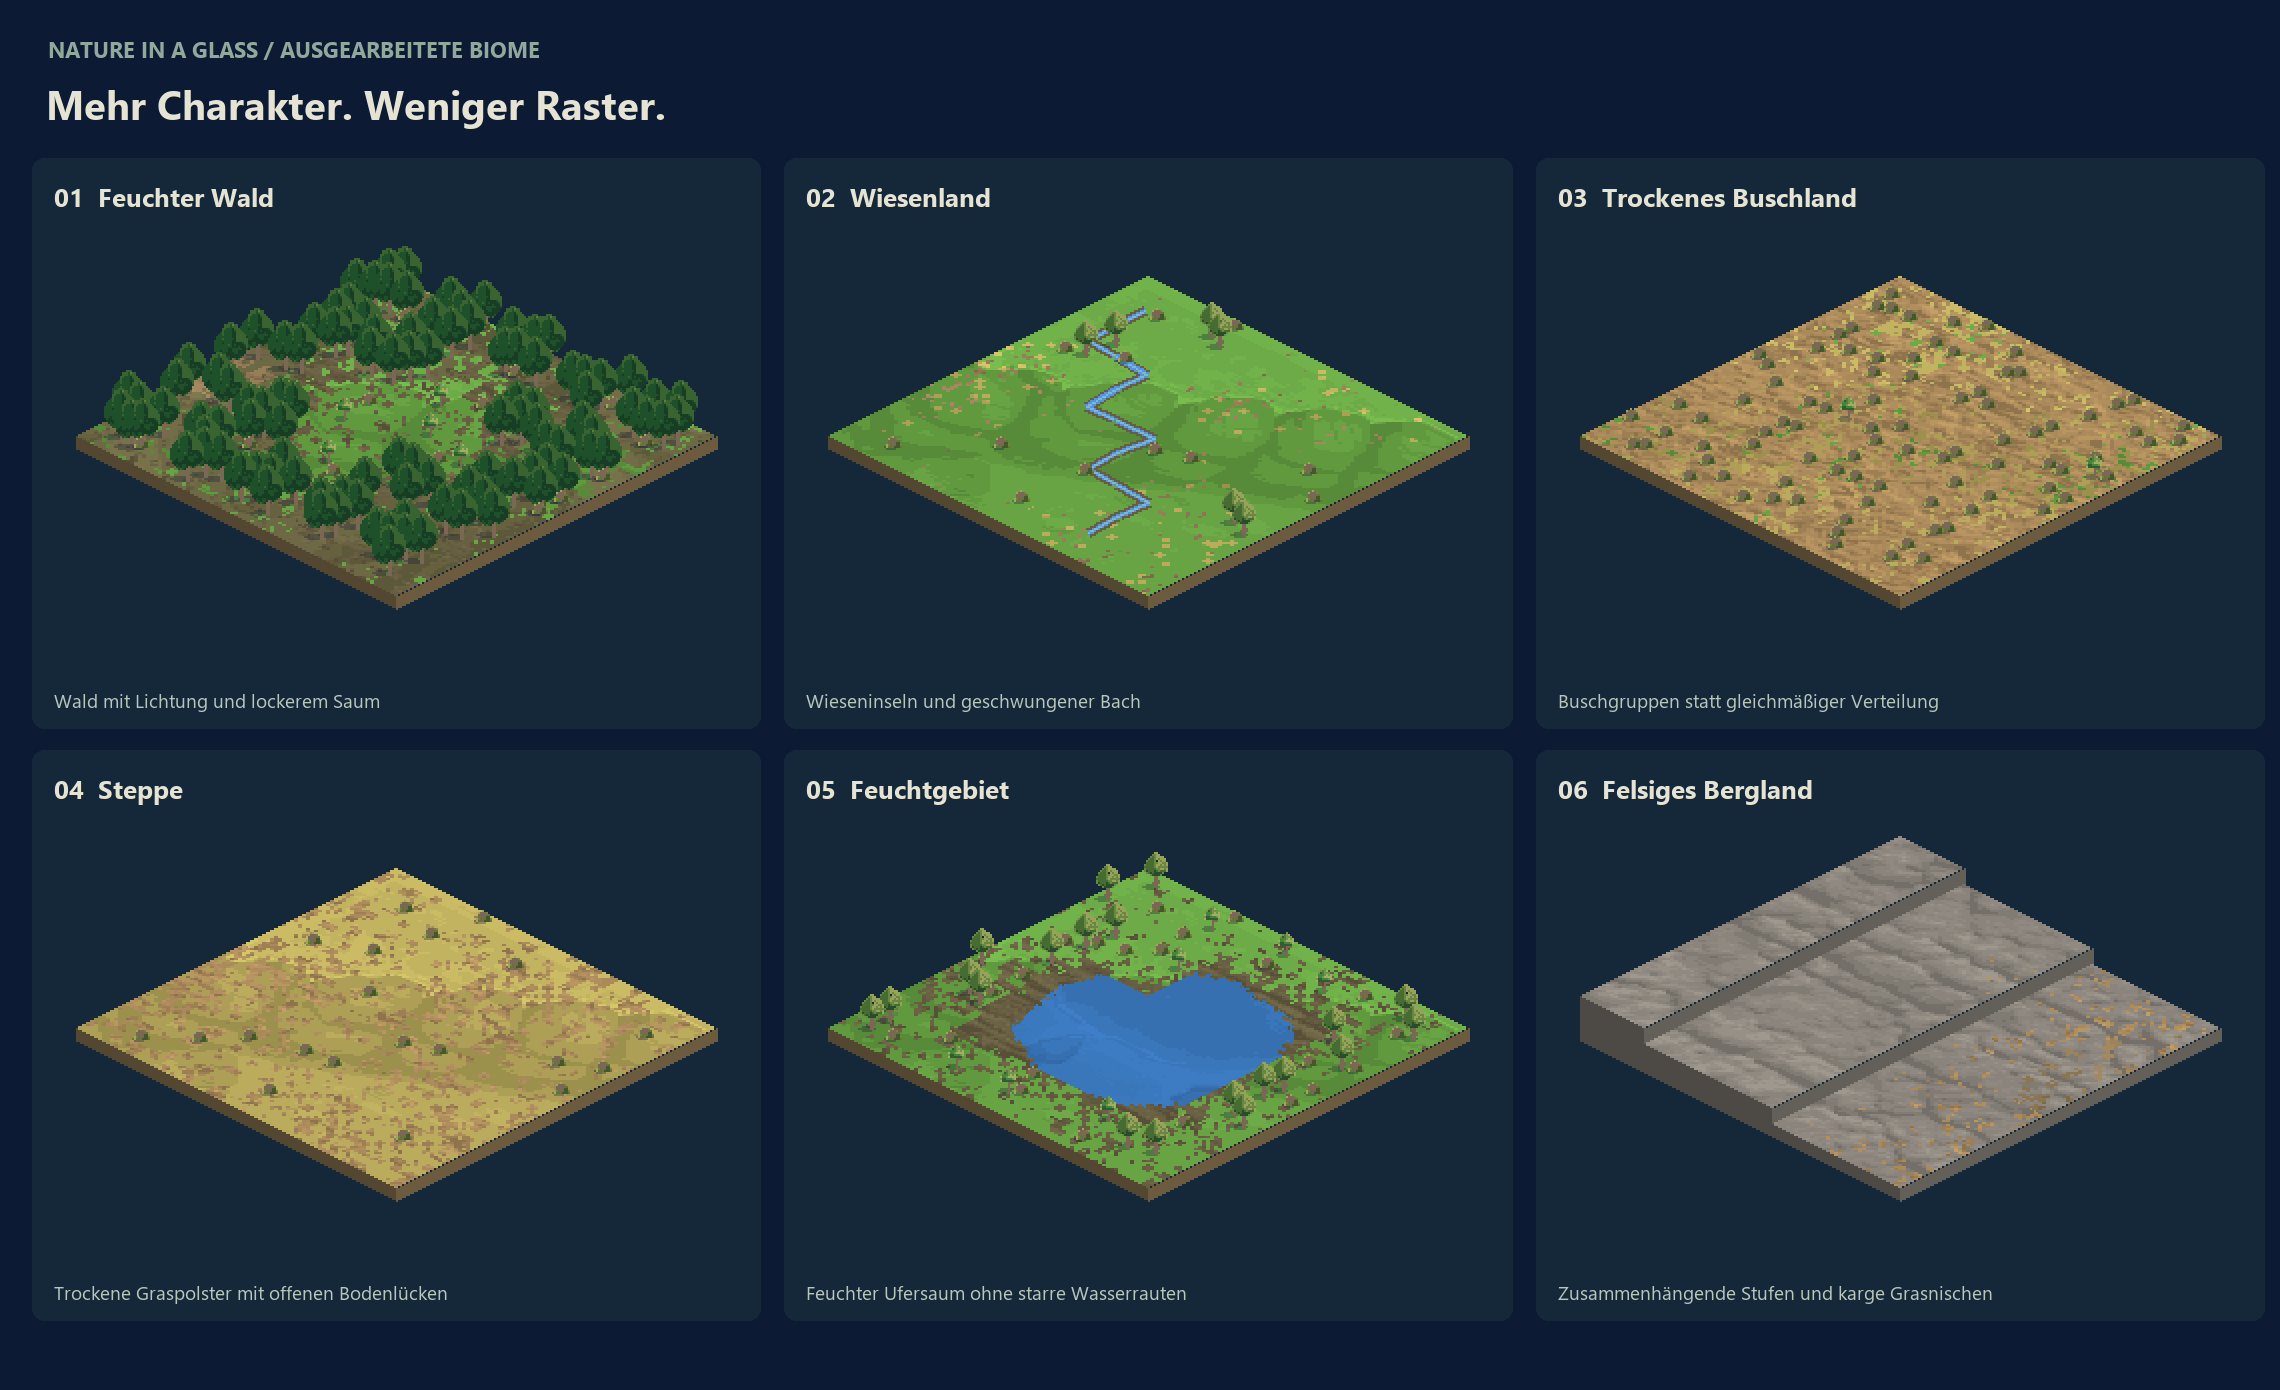
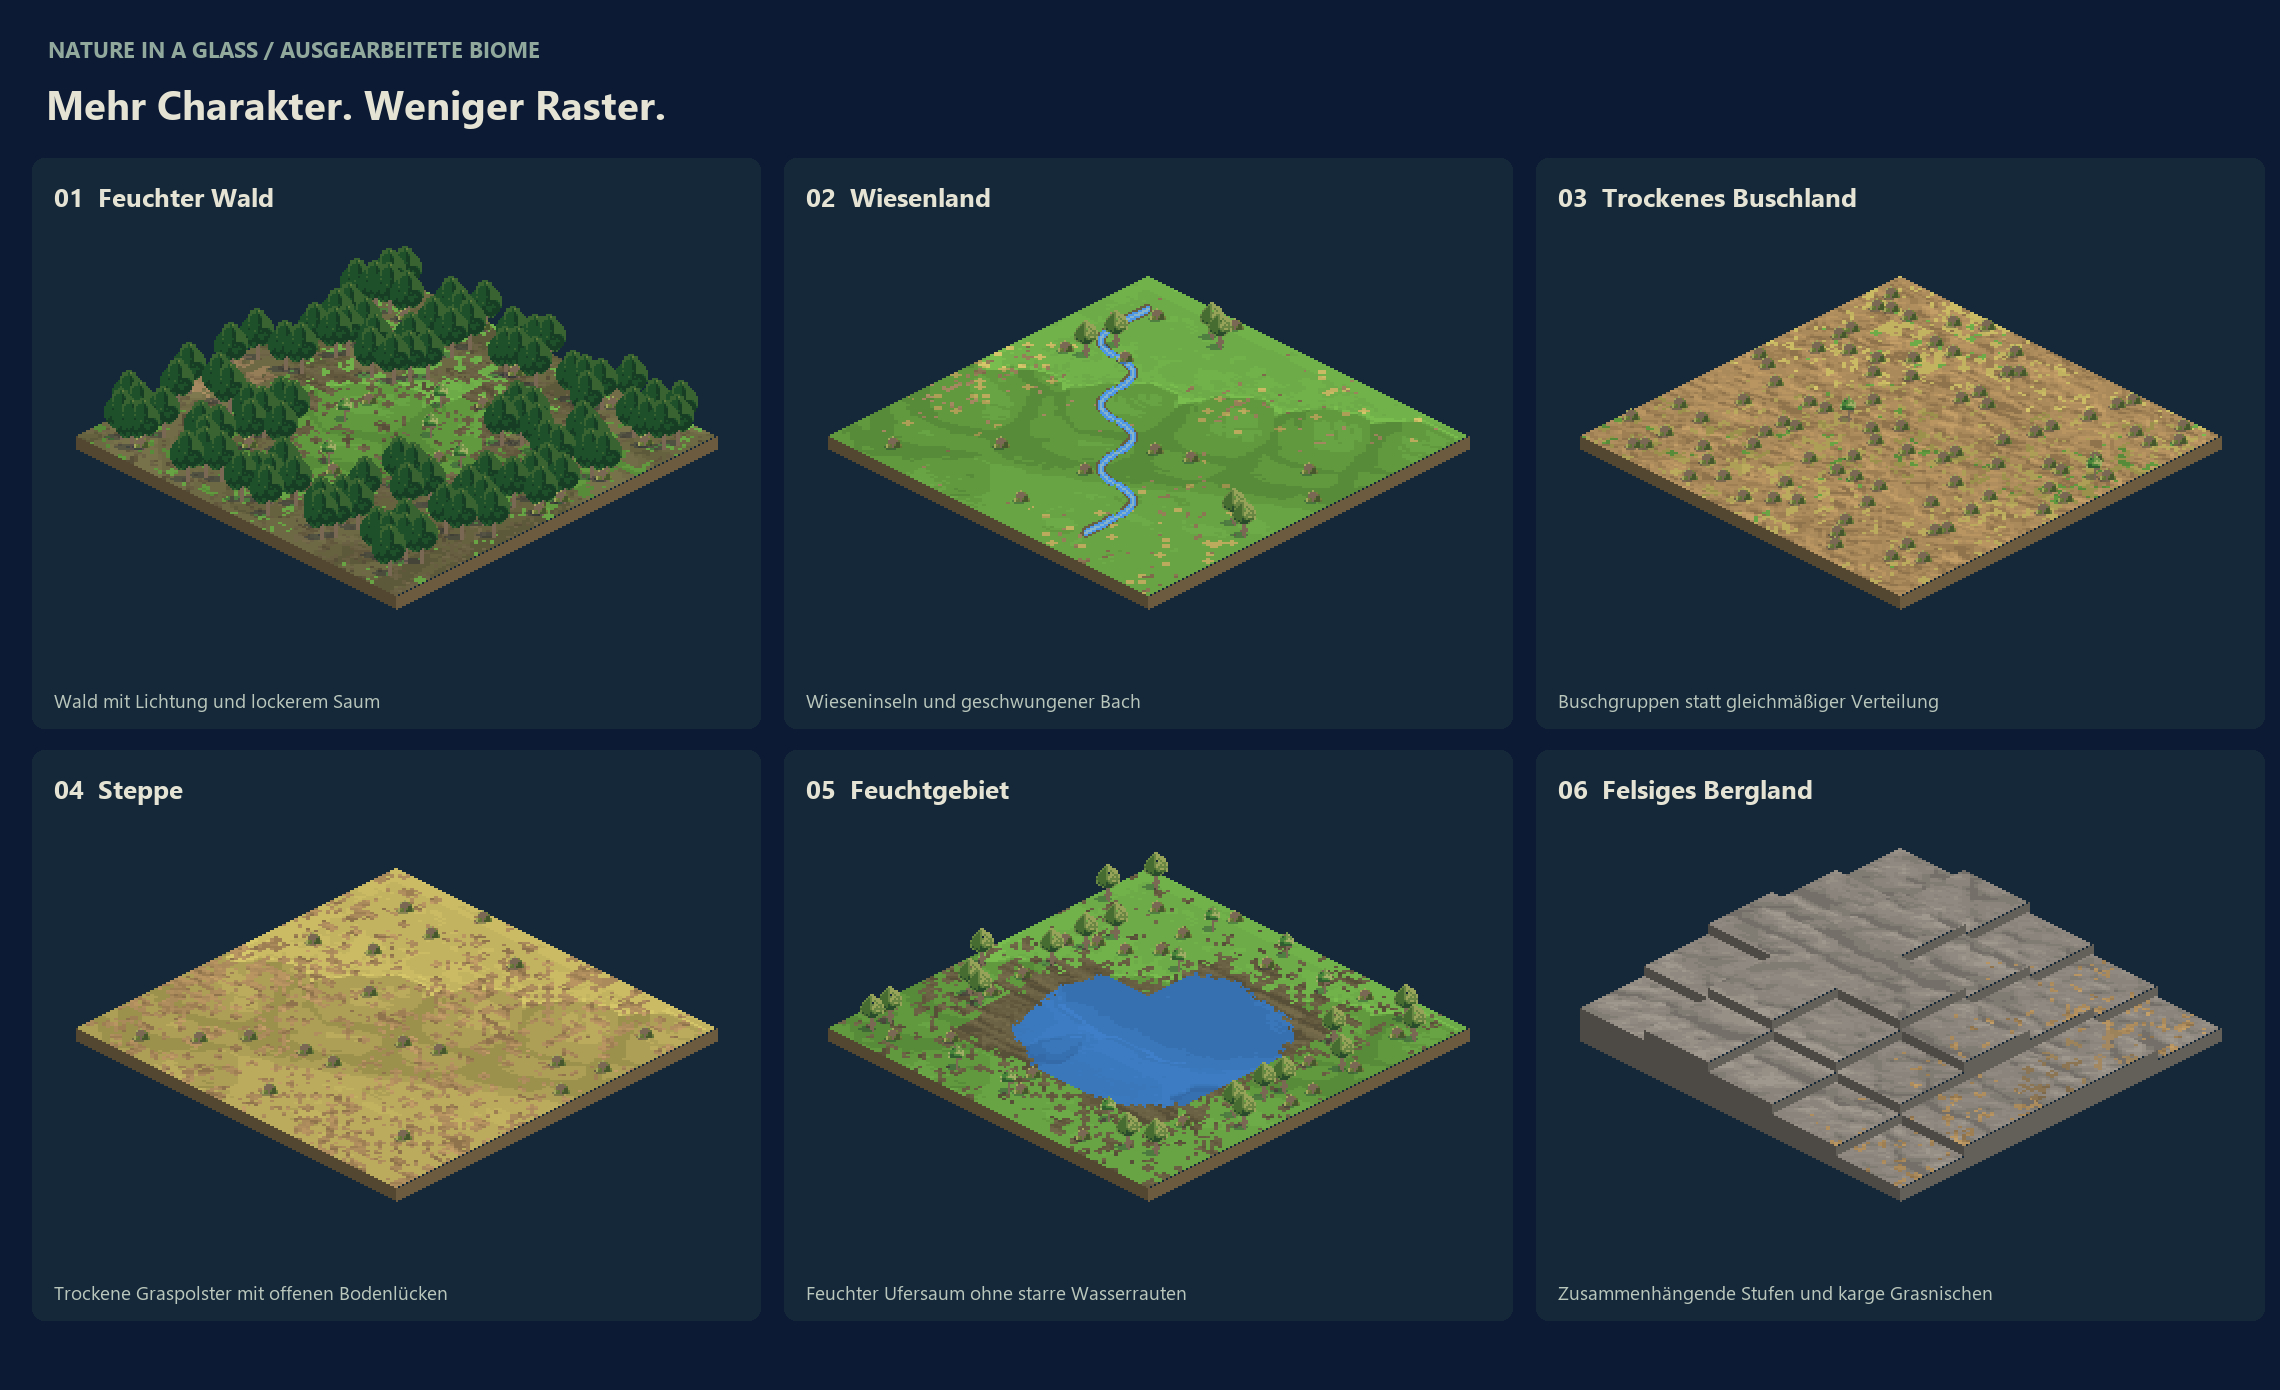
Gestaltung: Biomrichtung festhalten und Bachkurven verfeinern

Changed region(s): [[0.6851, 0.5878, 0.9654, 0.8353], [0.4671, 0.2475, 0.5294, 0.3712]]

diff --git a/tools/nature/build_biome_transitions.py b/tools/nature/build_biome_transitions.py
@@ -5,7 +5,6 @@ koordinaten verhindert sichtbare Wiederholungen an jeder 64×32-Feldgrenze.
 """
 import json
 import math
-import hashlib
 import numpy as np
 from PIL import Image, ImageDraw
 import build_proof as b
@@ -68,7 +67,8 @@ def make_fields(n,kind=None):
                     forest=.35 if x in (0,4) else .06
                 if kind=='highland':
                     rock=.65+.35*smooth(0,3,4-x+y*.2)
-                    height=6+int((4-x+y*.2)/2)*8
+                    ridge=max(0,1-((x-1.1)/3.3)**2-((y-2.0)/3.4)**2)
+                    height=6+round(ridge*4)*5
                     grass=.32*(1-smooth(1,4,4-x+y*.2))
                     forest=0;shrub=.13*(1-rock)
             age=75 if forest>.5 else 35 if forest>.2 else 10
@@ -148,6 +148,29 @@ def tile(fields,x,y,materials):
 def tree_count(f):
     return 0 if f<.05 else 1 if f<.2 else 2 if f<.4 else 3 if f<.6 else 4 if f<.7 else 5 if f<.8 else 6
 
+def stream_overlay(t,x,y):
+    """Quadratische Kurve mit festen Kantenanschlüssen, auf die Raute begrenzt."""
+    center=(32,16)
+    endpoints=[]
+    for key in ['upstream','downstream']:
+        p=t.get(key)
+        if p:
+            dx=p[0]-x;dy=p[1]-y
+            endpoints.append((32+(dx-dy)*16,16+(dx+dy)*8))
+        else:endpoints.append(center)
+    start,end=endpoints
+    points=[]
+    for i in range(33):
+        f=i/32
+        points.append(tuple(round((1-f)**2*start[j]+2*f*(1-f)*center[j]+f*f*end[j]) for j in (0,1)))
+    overlay=Image.new('RGBA',(64,32));draw=ImageDraw.Draw(overlay)
+    for color,width in [('675E42',5),('4E96E6',3),('87B4C9',1)]:
+        draw.line(points,fill=b.rgb(color)+(255,),width=width,joint='curve')
+    alpha=np.array(overlay.getchannel('A'))
+    alpha[np.array(b.diamond_mask())==0]=0
+    overlay.putalpha(Image.fromarray(alpha))
+    return overlay
+
 def render(fields,materials):
     n=len(fields);canvas=Image.new('RGBA',(n*64+48,n*32+100));d=ImageDraw.Draw(canvas)
     origin=canvas.width//2
@@ -163,17 +186,7 @@ def render(fields,materials):
             if height>right:d.polygon([(cx,cy+16),(cx+32,cy),(cx+32,cy+height-right),(cx,cy+16+height-right)],fill=tuple(round(c*.72) for c in wall))
             canvas.alpha_composite(tile(fields,x,y,materials),(cx-32,cy-16))
             if t['flow']>=60 and t['surface_water']<=150:
-                points=[]
-                for key in ['upstream',None,'downstream']:
-                    p=t.get(key) if key else None
-                    if p:
-                        dx=p[0]-x;dy=p[1]-y
-                        points.append((cx+(dx-dy)*16,cy+(dx+dy)*8))
-                    elif key is None:points.append((cx+round((noise(x,y,3)-.5)*6),cy+round((noise(x,y,4)-.5)*3)))
-                if len(points)>1:
-                    d.line(points,fill=b.rgb('675E42'),width=5)
-                    d.line(points,fill=b.rgb('4E96E6'),width=3)
-                    d.line(points,fill=b.rgb('87B4C9'),width=1)
+                canvas.alpha_composite(stream_overlay(t,x,y),(cx-32,cy-16))
             if t['surface_water']>150:continue
             spots=positions(x,y);sprites=[]
             stage='young' if t['forest_age']<15 else 'mid' if t['forest_age']<60 else 'old'
@@ -209,7 +222,7 @@ def main():
     scene.save(OUT/'connected-landscape.png',icc_profile=b.PROFILE)
     (OUT/'connected-landscape.json').write_text(json.dumps(fields,indent=2),encoding='utf-8')
     board=Image.new('RGB',(1800,1250),b.rgb('0C1A34'));d=ImageDraw.Draw(board)
-    d.text((52,30),'NATURE IN A GLASS / BIOME / RUNDE 05',font=b.font(22,True),fill='#91A99D')
+    d.text((52,30),'NATURE IN A GLASS / BIOME / RUNDE 07',font=b.font(22,True),fill='#91A99D')
     d.text((50,70),'Eine Landschaft statt einzelner Felder.',font=b.font(40,True),fill='#E5E4D4')
     d.text((52,128),'Waldsäume · Lichtungen · Feuchte Ufer · Trockene Grasinseln · Gestufte Felspartien',font=b.font(22),fill='#B9C6BB')
     zoom=scene.resize((scene.width*2,scene.height*2),Image.Resampling.NEAREST)

diff --git a/art/nature/ROUND-07.md b/art/nature/ROUND-07.md
@@ -1,0 +1,24 @@
+# Runde 07 – Gestaltungsrichtung festgehalten
+
+Der Projektinhaber hat die bereits gezeigten Biomübergänge positiv bewertet und
+am 17.10.2026 beauftragt, die Richtung festzuhalten und die Verfeinerung hochzuladen.
+Beibehalten werden lockere Waldsäume, Lichtungen, unregelmäßige Ufer und sanfte
+Wechsel zwischen grünen und trockenen Bodenflächen im bisherigen Siedler-I/II-
+inspirierten Stil. Dies bestätigt die Richtung, nicht die fertige Spielintegration.
+
+Die Bachsegmente im vorhandenen Prüfprogramm sind jetzt quadratische Kurven.
+Gemeinsame Feldkanten behalten feste Anschlusspunkte; die Pixel bleiben innerhalb
+der Raute des jeweiligen Bachfeldes. Die Bergland-Testbelegung bildet eine
+gerundete Erhebung mit kürzeren, versetzten Höhenstufen statt paralleler Bänder.
+Das Feldraster bleibt sichtbar; die Änderung ist kein neuer Geländealgorithmus
+für die Simulation. Die bisherigen Schwellen für Wasser und Vegetation bleiben.
+
+Die bestehenden Dateien `_biome-transitions.png`, `_biomes-refined.png` und die
+betroffenen Einzelproben werden aktualisiert, ohne zusätzliche Bildkopien.
+Herstellung weiterhin mit `tools/nature/build_biome_transitions.py` aus vorhandenen
+ComfyUI-Materialien. Keine neue KI-Generierung erforderlich.
+
+Die sechs Biomproben wurden visuell kontrolliert. Maskenprüfung beim erneuten
+Bau erfolgreich. Offen bleiben echte Höhenanschlüsse, Wasserfälle bei starken
+Höhenunterschieden, Prüfung bei Spielzoom und die Einbindung in den Renderer.
+Die verfeinerten Details sind neue Entwürfe innerhalb der bestätigten Richtung.

diff --git a/docs/gestaltung.md b/docs/gestaltung.md
@@ -314,6 +314,16 @@ Gibt der Befehl etwas aus, liegt mindestens eine Datei doppelt vor.
 
 **Rust-Prüfungen:** Wer nur Assets, Prüfblätter, Skripte unter `tools/` oder Dokumente ändert, braucht lokal kein Rust (`cargo`). Die Prüfungen laufen nach dem Hochladen automatisch auf GitHub für Windows, macOS und Linux; ihr Ergebnis steht am Pull Request. Nur wer Code unter `crates/` ändert, sollte vorher selbst prüfen (Rust über https://rustup.rs installieren).
 
+### Bestätigte Biomrichtung (17.10.2026)
+
+Die gezeigten Biomübergänge sind vom Projektinhaber als Gestaltungsrichtung
+bestätigt: lockere Waldsäume und Lichtungen, unregelmäßige Ufer sowie sanfte
+Wechsel zwischen grünen und trockenen Bodenflächen. Bachkurven werden weich
+geführt, Felsstufen in kürzeren, versetzten Abschnitten ausgearbeitet. Referenzen:
+`assets/nature/_biomes-refined.png`, `assets/nature/_biome-transitions.png` und
+`art/nature/ROUND-07.md`. Die Referenzen sind Prüfentwürfe; Spielintegration und
+Abnahme bei tatsächlichem Zoom stehen weiterhin aus.
+
 ## 10. Arbeitsreihenfolge für die Asset-Erstellung
 
 1. **Prüfblatt** `assets/nature/_testsheet.png`: eine 8 × 8-Felder-Insel in Isometrie mit allen Bodenarten, je einem Feld mit 1, 3 und 6 Bäumen jeder Altersstufe, Busch, Totholz, Brandfläche, Bach und Teich. Dient als Referenz für alle weiteren Schritte und wird zuerst abgenommen.

diff --git a/art/nature/README.md b/art/nature/README.md
@@ -1,6 +1,7 @@
 # Naturgestaltung – Prüfblatt 01
 
-**Aktuell ist Runde 06:** Kadaver und Spuren, siehe `ROUND-06.md`.
+**Aktuell ist Runde 07:** bestätigte Biomrichtung, weichere Bachkurven und
+versetzte Felsstufen, siehe `ROUND-07.md`. Kadaver und Spuren stehen in `ROUND-06.md`.
 Ausgearbeitete Biome und Übergänge stehen in `ROUND-05.md`.
 Tieranimationen und zweite Fellvariante stehen in `ROUND-04.md`.
 Die Naturkorrekturen der vorigen Runde stehen in `ROUND-03.md`.
